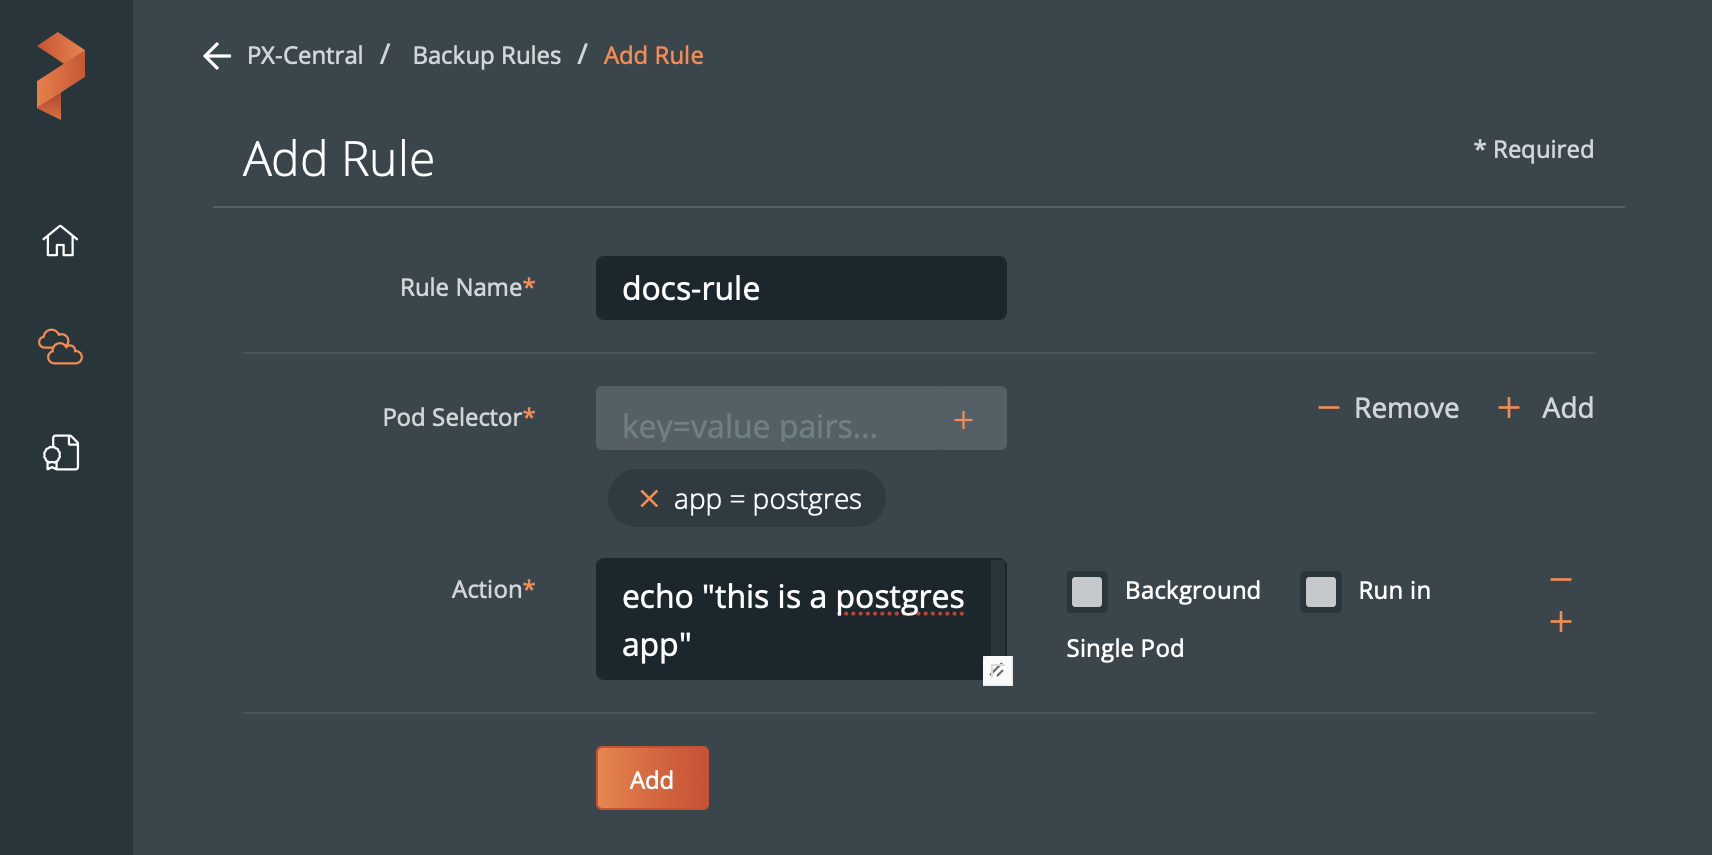
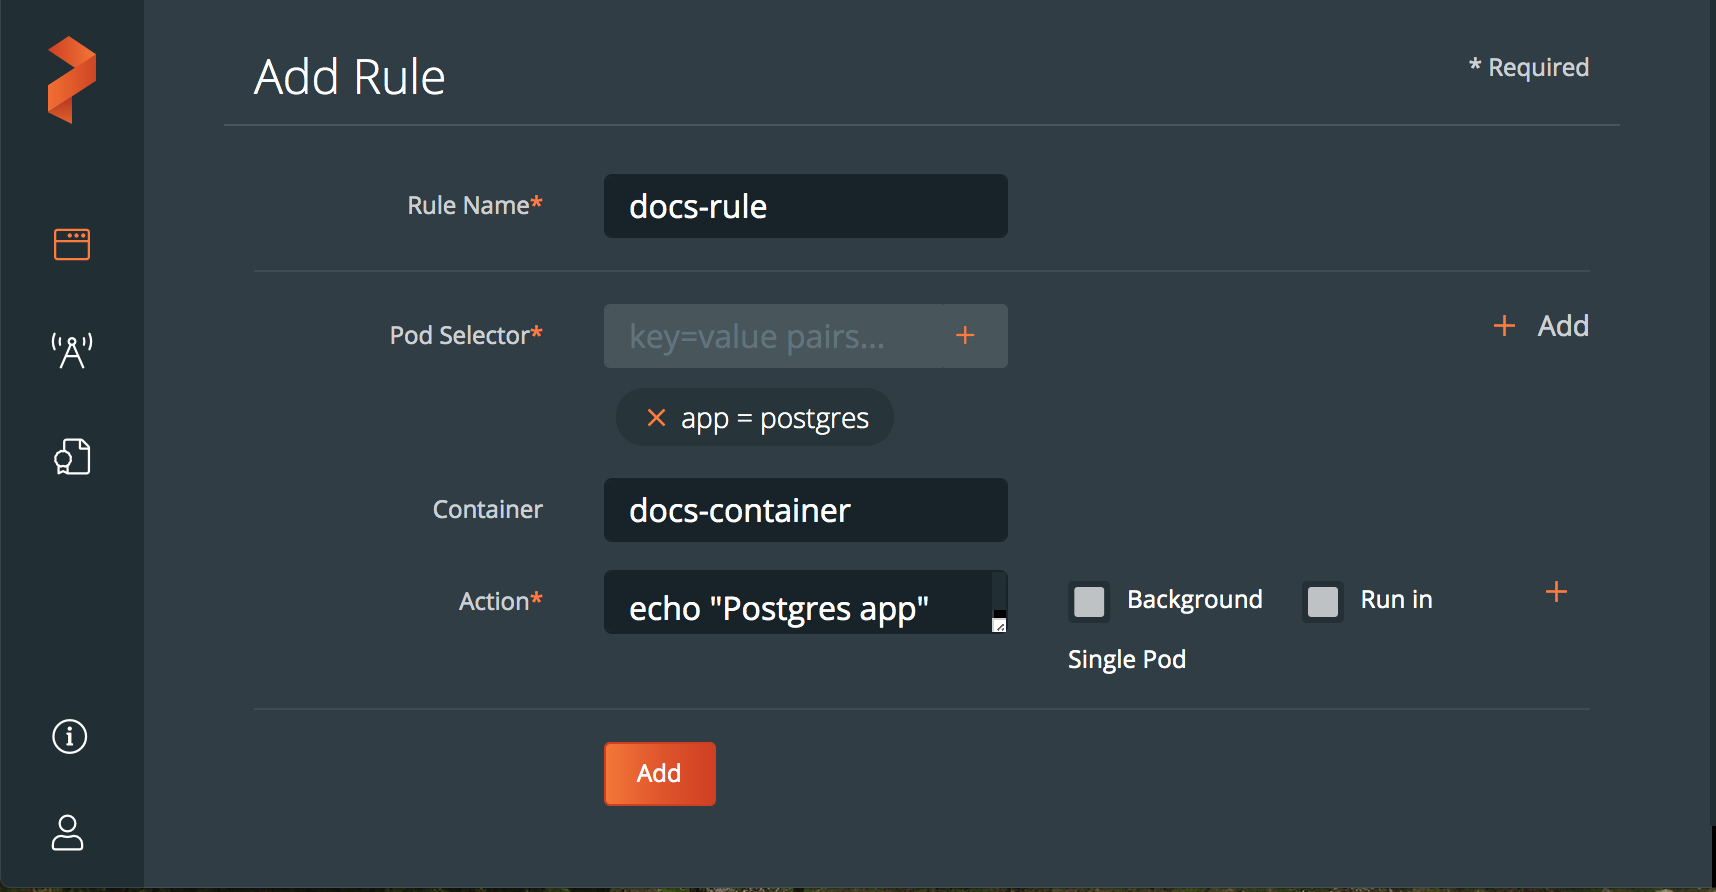
Updated screenshots and helm upgrade
Updated screenshots and helm upgrade

diff --git a/content/use-px-backup/upgrade.md b/content/use-px-backup/upgrade.md
@@ -30,7 +30,7 @@ To upgrade PX-Backup from an operator-based install to the Helm-based install in
 2. Change the `meta.helm.sh/release-namespace` annotation, specifying the namespace you installed PX-Central and PX-Backup onto originally:
 
     ```text
-    meta.helm.sh/release-namespace: <original-px-backup-namespace> 
+    meta.helm.sh/release-namespace: <original-px-backup-namespace>
     ```
 
 ### Upgrade your operator-based on-prem PX-Central deployment to the Helm chart method
@@ -41,7 +41,7 @@ To upgrade PX-Backup from an operator-based install to the Helm-based install in
     kubectl get cm pxc-central-ui-configmap -o yaml -n <px-central-namespace> | grep PX_BACKUP_ORGID
     ```
 
-2. Download the `create_volume_snapshot_from_pvc.yaml` spec: 
+2. Download the `create_volume_snapshot_from_pvc.yaml` spec:
 
     ```text
     curl -o create_volume_snapshot_from_pvc.yaml https://raw.githubusercontent.com/portworx/helm/chart_upgrade_specs/pxcentral-operator-to-chart-upgrade/create_volume_snapshot_from_pvc.yaml
@@ -104,7 +104,7 @@ To upgrade PX-Backup from an operator-based install to the Helm-based install in
     helm repo update
     helm install px-backup portworx/px-backup --namespace <px-central-namespace> --create-namespace --set persistentStorage.enabled=true,persistentStorage.storageClassName=stork-snapshot-sc,operatorToChartUpgrade=true,pxbackup.orgName=<orgName>,pxcentralDBPassword=singapore,oidc.centralOIDC.defaultUsername=<px-central-login>,oidc.centralOIDC.defaultPassword=<px-central-password>
     ```
-    
+
     {{<info>}}
 **NOTE:** In the Helm install command above, mention the same organization name which was used in previous operator based install.
     {{</info>}}
@@ -117,20 +117,45 @@ Once you've moved from an operator-based install to a Helm-based install, you ca
 
 * You must have PX-Backup with a Helm-based install
 
+### Upgrade PX-Backup
+
+Follow the steps in this section to upgrade PX-Backup using Helm.
+
 1. Update your Helm repos:
 
     ```text
     helm repo update
     ```
 
-2. Delete all of the stateful sets:
+2. Retrieve all custom values you used during install. Enter the following `helm get values` command, adjusting the values of the `<namespace>` and `<release-name>` parameters to match your environment:
+
+    ```text
+    helm get values -n <docs-namespace> <release-name>
+    ```
+
+    ```
+    USER-SUPPLIED VALUES:
+    persistentStorage:
+      enabled: true
+      storageClassName: px-sc
+    pxbackup:
+      orgName: my-organization
+    ```
+
+    Note the following about this example output:
+
+    * The `persistentStorage.storageClassName` field displays the name of your storage class (`px-sc`)
+    * The `persistentStorage` flag indicates that persistent storage is enabled
+    * The `pxbackup.orgName` field displays the name of your organization (`my-organization`)
+
+3. Delete all of the stateful sets:
 
     ```text
     kubectl delete sts --namespace <namespace> pxc-backup-etcd pxcentral-keycloak pxcentral-keycloak-postgresql
     ```
 
-3. Run helm upgrade command:
+4. Run the `helm upgrade` command, using the `--set` flag to pass all custom values you've used during install. The following example command enables persistent storage, sets the value of the `persistentStorage.storageClassName` parameter to `px-sc`, and sets the value of the `orgName` parameter to `my-organization`:
 
     ```text
-    helm upgrade px-backup portworx/px-backup --namespace <namespace>
+    helm upgrade px-backup portworx/px-backup --namespace <namespace> --set persistentStorage.enabled=true,persistentStorage.storageClassName=px-sc,pxbackup.orgName=my-organization
     ```

diff --git a/content/use-px-backup/rules/_index.md b/content/use-px-backup/rules/_index.md
@@ -17,17 +17,18 @@ type: common-landing
 
     ![Add backup rule](/img/add-rule.png)
 
-3. Build your rule by populating the fields:
+3. Build your rule by populating the following fields:
 
     * **Rule Name**: Enter a descriptive name for your rule
     * **Pod selector**: Enter any label selectors based on your pod’s labels. For example, `app = mysql` uses the app label to select pods running `mysql`. Use any of the equality-based selector operators.
+    * **Container** _(Optional)_: Enter the optional name of the container to which PX-Backup will apply the rule.
     * **Action**: Enter any commands you want to execute when the rule is triggered.
     * **Background**: Enable this if you want the rule to run in the background.
     * **Run in single pod**: Run this rule in a single pod.
 
     ![Populate backup rule](/img/populate-rule.png)
 
-4. Select the **+ Add** icon to add more sub-rules:
+4. _(Optional)_: Select the **+ Add** icon to add more sub-rules:
 
     ![Add more sub-rules](/img/subrule.png)
 
